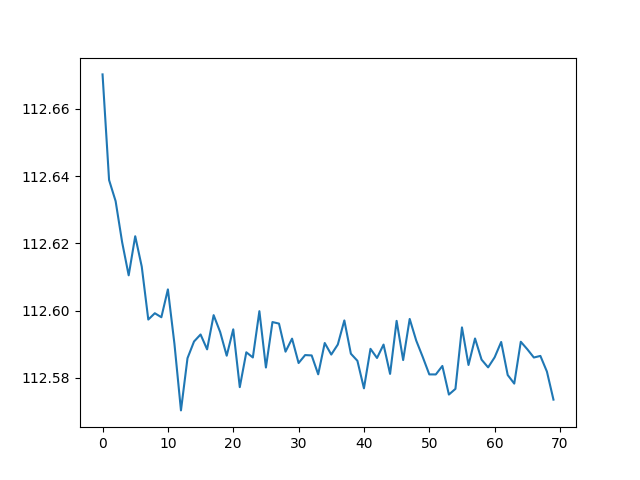
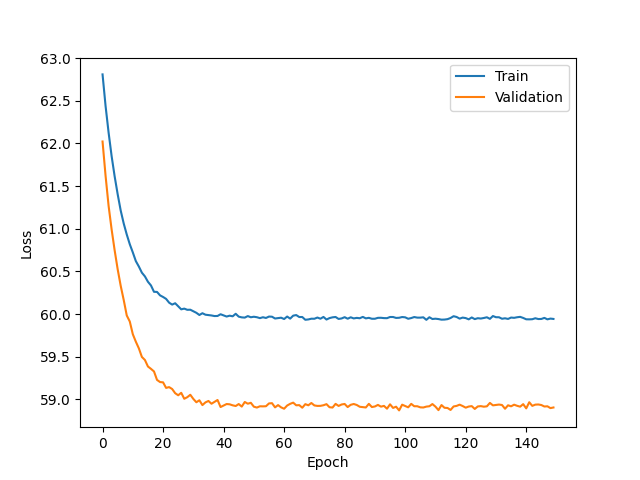
[Finish] train

diff --git a/main.py b/main.py
@@ -1,94 +1,16 @@
 import matplotlib.pyplot as plt
 import numpy as np
 import torch
-import torch.nn as nn
-import torch.optim as optim
 from econml.metalearners import SLearner
 from lightgbm import LGBMRegressor
 from sklearn.preprocessing import MinMaxScaler
-from torch.optim import lr_scheduler
-from tqdm import tqdm
 
 from src.make_data import DatasetGenerator, split_dataset
-from src.model.common import make_loader
+from src.model.common import get_model, make_loader
+from src.trainer import Trainer
 
 # NNのランダム性を固定
 torch.manual_seed(42)
-
-
-# 非線形モデルの定義
-class NonLinearModel(nn.Module):
-    def __init__(self, input_dim):
-        super(NonLinearModel, self).__init__()
-        self.fc1 = nn.Linear(input_dim, 2 * input_dim)
-        self.fc2 = nn.Linear(2 * input_dim, input_dim)
-        self.fc3 = nn.Linear(input_dim, int(0.5 * input_dim))
-        self.fc4 = nn.Linear(int(0.5 * input_dim), 1)
-
-    def forward(self, x):
-        x = torch.relu(self.fc1(x))
-        x = torch.relu(self.fc2(x))
-        x = torch.relu(self.fc3(x))
-        x = torch.sigmoid(self.fc4(x))
-        return x
-
-
-# 損失関数の定義
-def custom_loss(y_r, y_c, q, group_size):
-    q = torch.clamp(q, 1e-6, 1 - 1e-6)
-    logit_q = torch.log(q / (1 - q))
-    loss = -torch.sum(y_r * logit_q + y_c * torch.log(1 - q)) / group_size
-    return loss
-
-
-def get_loss(num_epochs, lr, X_train, dl, dl_val):
-    model = NonLinearModel(X_train.shape[1])
-    optimizer = optim.Adam(model.parameters(), lr=lr)
-    loss_history, loss_history_val = [], []
-    lambda_scheduler = lr_scheduler.LambdaLR(
-        optimizer, lr_lambda=lambda epoch: 0.90**epoch
-    )
-    # 学習ループ
-    for epoch in tqdm(range(num_epochs), desc="Training"):
-        model.train()
-        total_loss, total_loss_val = 0, 0
-        count_batches, count_batches_val = 0, 0
-        average_loss = 0
-        total = len(dl)
-        desc = f"Epoch {epoch} AVG Loss: {average_loss:.4f}"
-        for x_1, y_r_1, y_c_1, x_0, y_r_0, y_c_0 in tqdm(
-            dl, total=total, desc=desc, leave=False
-        ):
-            optimizer.zero_grad()
-            q_1 = model(x_1)
-            q_0 = model(x_0)
-            loss_1 = custom_loss(y_r_1, y_c_1, q_1, x_1.size(0))
-            loss_0 = custom_loss(y_r_0, y_c_0, q_0, x_0.size(0))
-            loss = loss_1 - loss_0
-            loss.backward()
-            optimizer.step()
-            total_loss += loss.item()
-            count_batches += 1
-        average_loss = total_loss / count_batches
-        loss_history.append(average_loss)
-        lambda_scheduler.step()
-        # 検証データでの損失関数の計算
-        model.eval()
-        with torch.no_grad():
-            for x_1, y_r_1, y_c_1, x_0, y_r_0, y_c_0 in tqdm(
-                dl_val, total=total, desc=desc, leave=False
-            ):
-                q_1 = model(x_1)
-                q_0 = model(x_0)
-                loss_1 = custom_loss(y_r_1, y_c_1, q_1, x_1.size(0))
-                loss_0 = custom_loss(y_r_0, y_c_0, q_0, x_0.size(0))
-                loss = loss_1 - loss_0
-                total_loss_val += loss.item()
-                count_batches_val += 1
-
-        average_loss_val = total_loss_val / count_batches_val
-        loss_history_val.append(average_loss_val)
-    return model, loss_history, loss_history_val
 
 
 # 評価
@@ -98,7 +20,7 @@ def get_roi(model, X_test):
         # 1000個ずつに分けて推論
         for i in range(0, len(X_test), 1000):
             X_test_batch = torch.tensor(X_test[i : i + 1000], dtype=torch.float32)
-            q_test_batch = model(X_test_batch)
+            q_test_batch = model(X_test_batch)["pred"]
             if i == 0:
                 q_test = q_test_batch
             else:
@@ -114,7 +36,7 @@ def plot_loss(loss_history, loss_history_val):
     plt.xlabel("Epoch")
     plt.ylabel("Loss")
     plt.legend()
-    plt.show()
+    plt.savefig("loss.png")
 
 
 def get_roi_tpmsl(X_train, y_r_train, y_c_train, T_train, X_test):
@@ -176,7 +98,6 @@ def main(predict_ps: bool) -> None:
     seed = 42
     n_samples = 100_000
     n_features = 8
-    dic = {}
     num_epochs = 150
     lr = 0.0001
     std = 1.0
@@ -184,7 +105,6 @@ def main(predict_ps: bool) -> None:
     batch_size = 128
     dataset = DatasetGenerator(n_samples, n_features, std, seed)
     dataset = dataset.generate_dataset()
-    dic = dataset
     train_dataset, val_dataset, test_dataset = split_dataset(dataset)
     X_train, X_val, X_test = (
         train_dataset["features"],
@@ -206,26 +126,6 @@ def main(predict_ps: bool) -> None:
         val_dataset["y_c"],
         test_dataset["y_c"],
     )
-    y_r_ipw_train, y_r_ipw_val, y_r_ipw_test = (
-        train_dataset["y_r_ipw"],
-        val_dataset["y_r_ipw"],
-        test_dataset["y_r_ipw"],
-    )
-    y_c_ipw_train, y_c_ipw_val, y_c_ipw_test = (
-        train_dataset["y_c_ipw"],
-        val_dataset["y_c_ipw"],
-        test_dataset["y_c_ipw"],
-    )
-    y_r_dr_train, y_r_dr_val, y_r_dr_test = (
-        train_dataset["y_r_dr"],
-        val_dataset["y_r_dr"],
-        test_dataset["y_r_dr"],
-    )
-    y_c_dr_train, y_c_dr_val, y_c_dr_test = (
-        train_dataset["y_c_dr"],
-        val_dataset["y_c_dr"],
-        test_dataset["y_c_dr"],
-    )
     train_dl = make_loader(
         train_dataset,
         model_name=model_name,
@@ -240,21 +140,13 @@ def main(predict_ps: bool) -> None:
         train_flg=True,
         seed=seed,
     )
-
-    method_dic = {
-        # "Direct": [y_r_train, y_c_train, y_r_val, y_c_val],
-        # "IPW": [y_r_ipw_train, y_c_ipw_train, y_r_ipw_val, y_c_ipw_val],
-        "DR": [y_r_dr_train, y_c_dr_train, y_r_dr_val, y_c_dr_val]
-    }
+    model_params = {"input_dim": n_features}
+    model = get_model(model_name=model_name, model_params=model_params)
     roi_dic = {}
-    for method in method_dic:
-        dl, dl_val = train_dl, val_dl
-        model, loss_history, loss_history_val = get_loss(
-            num_epochs, lr, X_train, dl, dl_val
-        )
-        # plot_loss(loss_history, loss_history_val)
-        roi = get_roi(model, X_test)
-        roi_dic[method] = roi
+    trainer = Trainer(num_epochs=num_epochs, lr=lr)
+    model = trainer.train(train_dl=train_dl, val_dl=val_dl, model=model)
+    roi = get_roi(model, X_test)
+    roi_dic["DR"] = roi
     roi_tpmsl = get_roi_tpmsl(X_train, y_r_train, y_c_train, T_train, X_test)
     roi_dic["TPMSL"] = roi_tpmsl
     plt.clf()

diff --git a/src/model/direct.py b/src/model/direct.py
@@ -46,7 +46,15 @@ class TrainDirectDataset(Dataset):  # type: ignore
 
     def __getitem__(
         self, idx: int
-    ) -> Tuple[NDArray[Any], NDArray[Any], NDArray[Any], NDArray[Any], NDArray[Any], NDArray[Any], int]:
+    ) -> Tuple[
+        NDArray[Any],
+        NDArray[Any],
+        NDArray[Any],
+        NDArray[Any],
+        NDArray[Any],
+        NDArray[Any],
+        int,
+    ]:
         # treatmentのデータを取得
         X_treated = self.X_treated[idx]
         y_r_treated = self.y_r_treated[idx]
@@ -63,17 +71,27 @@ class TrainDirectDataset(Dataset):  # type: ignore
         # y_r = np.concatenate([y_r_treated, y_r_control], axis=0)
         # y_c = np.concatenate([y_c_treated, y_c_control], axis=0)
 
-        return X_treated, y_r_treated, y_c_treated, X_control, y_r_control, y_c_control, self.ratio
+        return (
+            X_treated,
+            y_r_treated,
+            y_c_treated,
+            X_control,
+            y_r_control,
+            y_c_control,
+            self.ratio,
+        )
 
 
 class DirectCollator:
-    def __call__(self, batch: list[Any]) -> Tuple[torch.Tensor, torch.Tensor, torch.Tensor, torch.Tensor, torch.Tensor, torch.Tensor]:
+    def __call__(
+        self, batch: list[Any]
+    ) -> Dict[str, torch.Tensor]:
         # バッチを作成
         # X = torch.cat([torch.tensor(x[0], dtype=torch.float32) for x in batch], dim=0)
         # T = torch.cat([torch.tensor(x[1], dtype=torch.float32) for x in batch], dim=0)
         # y_r = torch.cat([torch.tensor(x[2], dtype=torch.float32) for x in batch], dim=0)
         # y_c = torch.cat([torch.tensor(x[3], dtype=torch.float32) for x in batch], dim=0)
-        
+
         X_treated = torch.tensor([x[0] for x in batch], dtype=torch.float32)
         y_r_treated = torch.tensor([x[1] for x in batch], dtype=torch.float32)
         y_c_treated = torch.tensor([x[2] for x in batch], dtype=torch.float32)
@@ -86,15 +104,14 @@ class DirectCollator:
         X_control = X_control.reshape(N * ratio, D)
         y_r_control = y_r_control.reshape(N * ratio, 1)
         y_c_control = y_c_control.reshape(N * ratio, 1)
-        return X_treated, y_r_treated, y_c_treated, X_control, y_r_control, y_c_control
-
-
-        # return {
-        #     "X": X,
-        #     "T": T,
-        #     "y_r": y_r,
-        #     "y_c": y_c,
-        # }
+        return {
+            "X_treated": X_treated,
+            "y_r_treated": y_r_treated,
+            "y_c_treated": y_c_treated,
+            "X_control": X_control,
+            "y_r_control": y_r_control,
+            "y_c_control": y_c_control,
+        }
 
 
 class TestDirectDataset(Dataset):  # type: ignore
@@ -122,31 +139,31 @@ class DirectNonLinear(nn.Module):
 
     def forward(
         self,
-        X: torch.Tensor,
-        T: Optional[torch.Tensor] = None,
-        y_r: Optional[torch.Tensor] = None,
-        y_c: Optional[torch.Tensor] = None,
+        X_treated: torch.Tensor,
+        y_r_treated: Optional[torch.Tensor] = None,
+        y_c_treated: Optional[torch.Tensor] = None,
+        X_control: Optional[torch.Tensor] = None,
+        y_r_control: Optional[torch.Tensor] = None,
+        y_c_control: Optional[torch.Tensor] = None,
     ) -> Dict[str, torch.Tensor]:
-        pred = self._predict(X)
-        if T is not None and y_r is not None and y_c is not None:
-            treated_mask = T == 1
-            X_treated = X[treated_mask]
-            y_r_treated = y_r[treated_mask]
-            y_c_treated = y_c[treated_mask]
+        # pred = self._predict(X)
+        if (
+            X_control is not None
+            and y_r_treated is not None
+            and y_r_control is not None
+            and y_c_treated is not None
+            and y_c_control is not None
+        ):
             q_treated = self._predict(X_treated)
-
-            control_mask = T == 0
-            X_control = X[control_mask]
-            y_r_control = y_r[control_mask]
-            y_c_control = y_c[control_mask]
             q_control = self._predict(X_control)
 
             loss_1 = custom_loss(y_r_treated, y_c_treated, q_treated, X_treated.size(0))
             loss_0 = custom_loss(y_r_control, y_c_control, q_control, X_control.size(0))
             loss = loss_1 - loss_0
 
-            return {"pred": pred, "loss": loss}
+            return {"loss": loss}
         else:
+            pred = self._predict(X_treated)
             return {"pred": pred}
 
     def _predict(self, x: torch.Tensor) -> torch.Tensor:

diff --git a/src/trainer.py b/src/trainer.py
@@ -30,15 +30,18 @@ class Trainer:
         lambda_scheduler = lr_scheduler.LambdaLR(
             optimizer, lr_lambda=lambda epoch: 0.90**epoch
         )
-        loss = np.inf
         train_loss_history: list = []
         val_loss_history: list = []
+        loss = np.inf
         for epoch in tqdm(range(self.num_epochs), desc="Training"):
             model.train()
             total_train_loss: float = 0.0
             count_batch: int = 0
+            average_loss = 0
+            total = len(train_dl)
+            desc = f"Epoch {epoch} AVG Loss: {average_loss:.4f}"
             for batch in tqdm(
-                train_dl, desc=f"Epoch {epoch} loss={loss:.3f}", leave=False
+                train_dl, desc=desc, leave=False
             ):
                 optimizer.zero_grad()
                 output = model(**batch)
@@ -55,18 +58,19 @@ class Trainer:
             total_val_loss = 0.0
             count_val_batch = 0
             with torch.no_grad():
-                for val_batch in val_dl:
+                for val_batch in tqdm(val_dl, total=total, desc=desc, leave=False):
                     val_output = model(**val_batch)
                     val_loss = val_output["loss"].item()
                     total_val_loss += val_loss
                     count_val_batch += 1
             val_loss_history.append(total_val_loss / count_val_batch)
 
-        plt.plot(train_loss_history)
-        plt.savefig("train_loss.png")
-        plt.clf()
-        plt.plot(val_loss_history)
-        plt.savefig("val_loss.png")
+        plt.plot(train_loss_history, label="Train")
+        plt.plot(val_loss_history, label="Validation")
+        plt.savefig("train_val_loss.png")
+        plt.xlabel("Epoch")
+        plt.ylabel("Loss")
+        plt.legend()
         return model
 
     def predict(self, dl: DataLoader, model: nn.Module) -> NDArray[Any]:  # type: ignore
